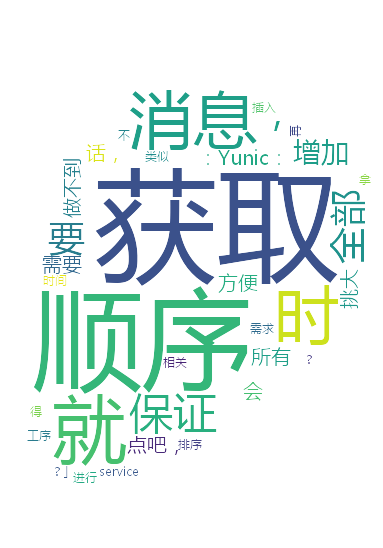
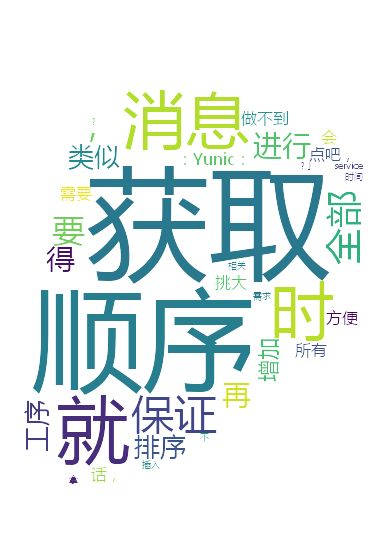
Add files via upload

Changed region(s): [[0.0574, 0.1551, 0.9765, 0.8996]]

diff --git a/simulate/test/test.router.nlp.js b/simulate/test/test.router.nlp.js
@@ -1,0 +1,180 @@
+/**
+ * Module dependencies
+ */
+const expect = require('expect.js');
+const axios = require('axios').default;
+const io = require('socket.io-client');
+const UserRequester = require('../suite/requester/requester.user');
+const FriendRequester = require('../suite/requester/requester.friend');
+const ChatRequester = require('../suite/requester/requester.chat');
+const NLPRequester = require('../suite/requester/requester.nlp');
+const UserEmitter = require('../suite/emitter/emitter.user');
+const FriendEmitter = require('../suite/emitter/emitter.friend');
+const ChatEmitter = require('../suite/emitter/emitter.chat');
+const { PORT, AXIOS: { HOST: HOST }, SOCKET, REASON, NOTIFICATION } = require('../constant');
+const { sleep } = require('../util');
+const server = require('../server');
+
+// activates server
+server.listen(PORT);
+
+// sets default base URL
+axios.defaults.baseURL = `${HOST}:${PORT}`;
+
+// builds two new sockets
+const socket1 = io(SOCKET.HOST);
+const socket2 = io(SOCKET.HOST);
+
+// builds requesters
+const user_requester = new UserRequester();
+const friend_requester = new FriendRequester();
+const chat_requester = new ChatRequester();
+const nlp_requester = new NLPRequester();
+
+// binds axios to the requesters
+user_requester.bindAxios(axios);
+friend_requester.bindAxios(axios);
+chat_requester.bindAxios(axios);
+nlp_requester.bindAxios(axios);
+
+// builds emitters
+const user_emitter1 = new UserEmitter();
+const user_emitter2 = new UserEmitter();
+const friend_emitter1 = new FriendEmitter();
+const friend_emitter2 = new FriendEmitter();
+const chat_emitter1 = new ChatEmitter();
+const chat_emitter2 = new ChatEmitter();
+
+// binds socket to the user emitters
+user_emitter1.bindSocket(socket1);
+user_emitter2.bindSocket(socket2);
+friend_emitter1.bindSocket(socket1);
+friend_emitter2.bindSocket(socket2);
+chat_emitter1.bindSocket(socket1);
+chat_emitter2.bindSocket(socket2);
+
+describe('NLP', function() {
+	describe('#register...', function() {
+		it('should response 201', async function() {
+			this.timeout(50000);
+			// case: perform well when new user
+			await user_requester.register('test_user1', 'default password', 'default nickname')
+			.then(response => {
+				expect(response.status).to.eql(201);
+			});
+			// case: perform well when new user
+			await user_requester.register('test_user2', 'default password', 'default nickname')
+			.then(response => {
+				expect(response.status).to.eql(201);
+			});
+		});
+	});
+
+	describe('#login', function() {
+		it('should response OK', async function() {
+			this.timeout(50000);
+			await user_emitter1.login('test_user1', 'default password', function({status}, resolve) {
+				expect(status).to.eql(SOCKET.STATUS.OK);
+				resolve();
+			});
+			await user_emitter2.login('test_user2', 'default password', function({status}, resolve) {
+				expect(status).to.eql(SOCKET.STATUS.OK);
+				resolve();
+			});
+		});
+	});
+
+	describe('#make_friends', function() {
+		it('should response OK', async function() {
+			this.timeout(50000);
+			await friend_emitter2.sendApply('test_user1', function({status}, resolve) {
+				expect(status).to.eql(SOCKET.STATUS.OK);
+				resolve();
+			});
+		});
+
+		it('should response OK', async function() {
+			this.timeout(50000);
+			await friend_emitter1.responseAccess('test_user2', function({status}, resolve) {
+				expect(status).to.eql(SOCKET.STATUS.OK);
+				resolve();
+			});
+		});
+	});
+
+	describe('#onSendMessage()', function() {
+		it('should response OK', async function() {
+			this.timeout(120000);
+			const message = {
+				receiver: 'test_user2',
+				text: `疫情发生以来，医务处针对疑似患者接诊、确诊患者收入院、康复者复查等不同情况，
+				制定了多种应急预案，应急预案的制定是确保医院防疫工作更加有序运行的制度保障。`,
+				time: new Date().getTime()
+			};
+			await chat_emitter1.sendMessage(message, function({status}, resolve) {
+				expect(status).to.eql(SOCKET.STATUS.OK);
+				resolve();
+			});		
+		});
+	});
+
+	describe('#cloud()', function() {
+		it('should response BAD PARAM', async function() {
+			this.timeout(50000);
+			await nlp_requester.cloud()
+			.then(response => { throw new Error('should no succeed')})
+			.catch(error => {
+				expect(error.response.status).to.eql(400);
+			});
+		});
+
+		it('should response REJECT', async function() {
+			this.timeout(50000);
+			await nlp_requester.cloud('test_user1')
+			.then(response => { throw new Error('should no succeed')})
+			.catch(error => {
+				expect(error.response.status).to.eql(409);
+				expect(error.response.data).to.eql(REASON.CLOUD.FEW);
+			});
+		});
+	});
+
+	describe('#onSendMessage()', function() {
+		it('should response OK', async function() {
+			this.timeout(120000);
+			let i = 0;
+			while (i < 20) {
+				const message = {
+					receiver: 'test_user2',
+					text: `疫情发生以来，医务处针对疑似患者接诊、确诊患者收入院、康复者复查等不同情况，
+				制定了多种应急预案，应急预案的制定是确保医院防疫工作更加有序运行的制度保障。
+				增加：Yunic：会方便点吧，如果做不到的话，就需要获取所有消息然后挑大的这样？」
+					service要拿全部消息？
+					因为需求和时间顺序相关，所以要不插入时保证顺序，要不就获取时保证顺序咯`,
+					time: new Date().getTime()
+				};
+				i++;
+				await chat_emitter1.sendMessage(message, function({status}, resolve) {
+					expect(status).to.eql(SOCKET.STATUS.OK);
+					resolve();
+				});		
+			}
+		});
+	});
+
+	describe('#cloud()', function() {
+		it('should response OK', async function() {
+			this.timeout(50000);
+			await nlp_requester.cloud('test_user1')
+			.then(response => {
+				expect(response.data).to.be.a('string');
+			});
+		});
+	});
+
+	after(function() {
+		socket1.close();
+		socket2.close();
+		server.close();
+	});
+});

diff --git a/simulate/test/test.service.nlp.js b/simulate/test/test.service.nlp.js
@@ -59,6 +59,31 @@ describe('Chat', function() {
 		});
 	});
 
+	describe('#messages_less_than_20', async function() {
+		it('should response OK', async function() {
+			this.timeout(120000);
+			let i = 0;
+			while (i < 10) {
+				const message = {
+					sender: 'test_user1',
+					receiver: 'test_user2',
+					text: `获取时保证顺序就得获取全部消息再进行类似排序的工序了`,
+					time: new Date().getTime()
+				};
+				i++;
+				const result = await chat_service.addMessage(message);
+				expect(result.status).to.eql(STATUS.OK);
+			}
+		});
+
+		it('should receiver REJECT for few messages', async function() {
+			this.timeout(120000);
+			const result = await nlp_service.cloud('test_user1');
+			expect(result.status).to.eql(STATUS.REJECT);
+			expect(result.reason).to.eql(REASON.CLOUD.FEW);
+		});
+	});
+
 	describe('#multiple_messages', async function() {
 		it('should response OK', async function() {
 			this.timeout(120000);
@@ -96,10 +121,11 @@ describe('Chat', function() {
 	});
 
 	describe('#cloud()', function() {
-		it('should write file', async function() {
+		it('should receive OK', async function() {
+			this.timeout(120000);
 			const result = await nlp_service.cloud('test_user1');
-			expect(result.satus).to.eql(STATUS.OK);
-			expect(result.data).to.eql(STATUS.OK);
+			expect(result.status).to.eql(STATUS.OK);
+			expect(result.data).to.be.a('string')
 		});
 	});
 });

diff --git a/simulate/http/router.nlp.js b/simulate/http/router.nlp.js
@@ -1,0 +1,35 @@
+/**
+ * Module dependencies
+ */
+const Router = require('@koa/router');
+const { HTTP, SERVICE: { STATUS: STATUS } } = require('../constant');
+const { nlp_service } = require('../simulate/service.singleton');
+
+// builds a router
+const router = new Router();
+
+// set routes, register the user
+router.get(HTTP.V1.NLP.CLOUD, async ctx => {
+	const { username } = ctx.params;
+
+	const is_valid = username !== ':username';
+	if (!is_valid) {
+		ctx.status = 400;
+		return;
+	}
+
+	const result = await nlp_service.cloud(username);
+	if (result.status === STATUS.OK) {
+		ctx.status = 200;
+		ctx.body = result.data;
+	}
+	else if (result.status === STATUS.REJECT) {
+		ctx.status = 409;
+		ctx.body = result.reason;
+	}
+});
+
+/**
+ * Expose `router`
+ */
+module.exports = router;

diff --git a/simulate/http/app.js b/simulate/http/app.js
@@ -7,6 +7,7 @@ const user_router = require('./router.user');
 const user_info_router = require('./router.userinfo');
 const friend_router = require('./router.friend');
 const chat_router = require('./router.chat');
+const nlp_router = require('./router.nlp');
 
 /**
  * Application
@@ -28,9 +29,13 @@ app.use(user_info_router.allowedMethods());
 app.use(friend_router.routes());
 app.use(friend_router.allowedMethods());
 
-// sets friend router
+// sets chat router
 app.use(chat_router.routes());
 app.use(chat_router.allowedMethods());
+
+// sets nlp router
+app.use(nlp_router.routes());
+app.use(nlp_router.allowedMethods());
 
 /**
  * Expose `app`

diff --git a/simulate/suite/requester/requester.nlp.js b/simulate/suite/requester/requester.nlp.js
@@ -1,0 +1,27 @@
+/**
+ * Module dependencies
+ */
+const BasicRequester = require('./basicrequester');
+const { HTTP } = require('../../constant');
+
+/**
+ * `Requester` constructor
+ *
+ * @api public
+ */
+function Requester() {
+	BasicRequester.call(this);
+}
+
+// modifies the prototype chain
+Requester.prototype = Object.create(BasicRequester.prototype);
+Requester.prototype.constructor = BasicRequester;
+
+Requester.prototype.cloud = function(username=':username') {
+	return this._axios.get(HTTP.V1.NLP.CLOUD.replace(':username', username));
+};
+
+/**
+ * Expose `Requester`
+ */
+module.exports = Requester;

diff --git a/simulate/constant.js b/simulate/constant.js
@@ -22,6 +22,8 @@ HTTP.V1.FRIEND.REJECT_APPLICANT = '/v1/friend/:username/applicants/reject/:appli
 HTTP.V1.CHAT = {};
 HTTP.V1.CHAT.GET_CHATLIST = '/v1/chat/:username/chatlist';
 HTTP.V1.CHAT.GET_HISTORY = '/v1/chat/:username/history/:friend/:time';
+HTTP.V1.NLP = {};
+HTTP.V1.NLP.CLOUD = '/v1/nlp/:username/cloud';
 
 /**
  * Expose `Event`

diff --git a/simulate/simulate/service.nlp.js b/simulate/simulate/service.nlp.js
@@ -45,8 +45,8 @@ Service.prototype.cloud = async function(username) {
 	const messages_sort = messages.sort((message1, message2) => {
 		return message2.time - message1.time;
 	});
-
-	if (messages_sort.length < 10) {
+	
+	if (messages_sort.length <= 10) {
 		return { status: STATUS.REJECT, reason: REASON.CLOUD.FEW };
 	}
 
